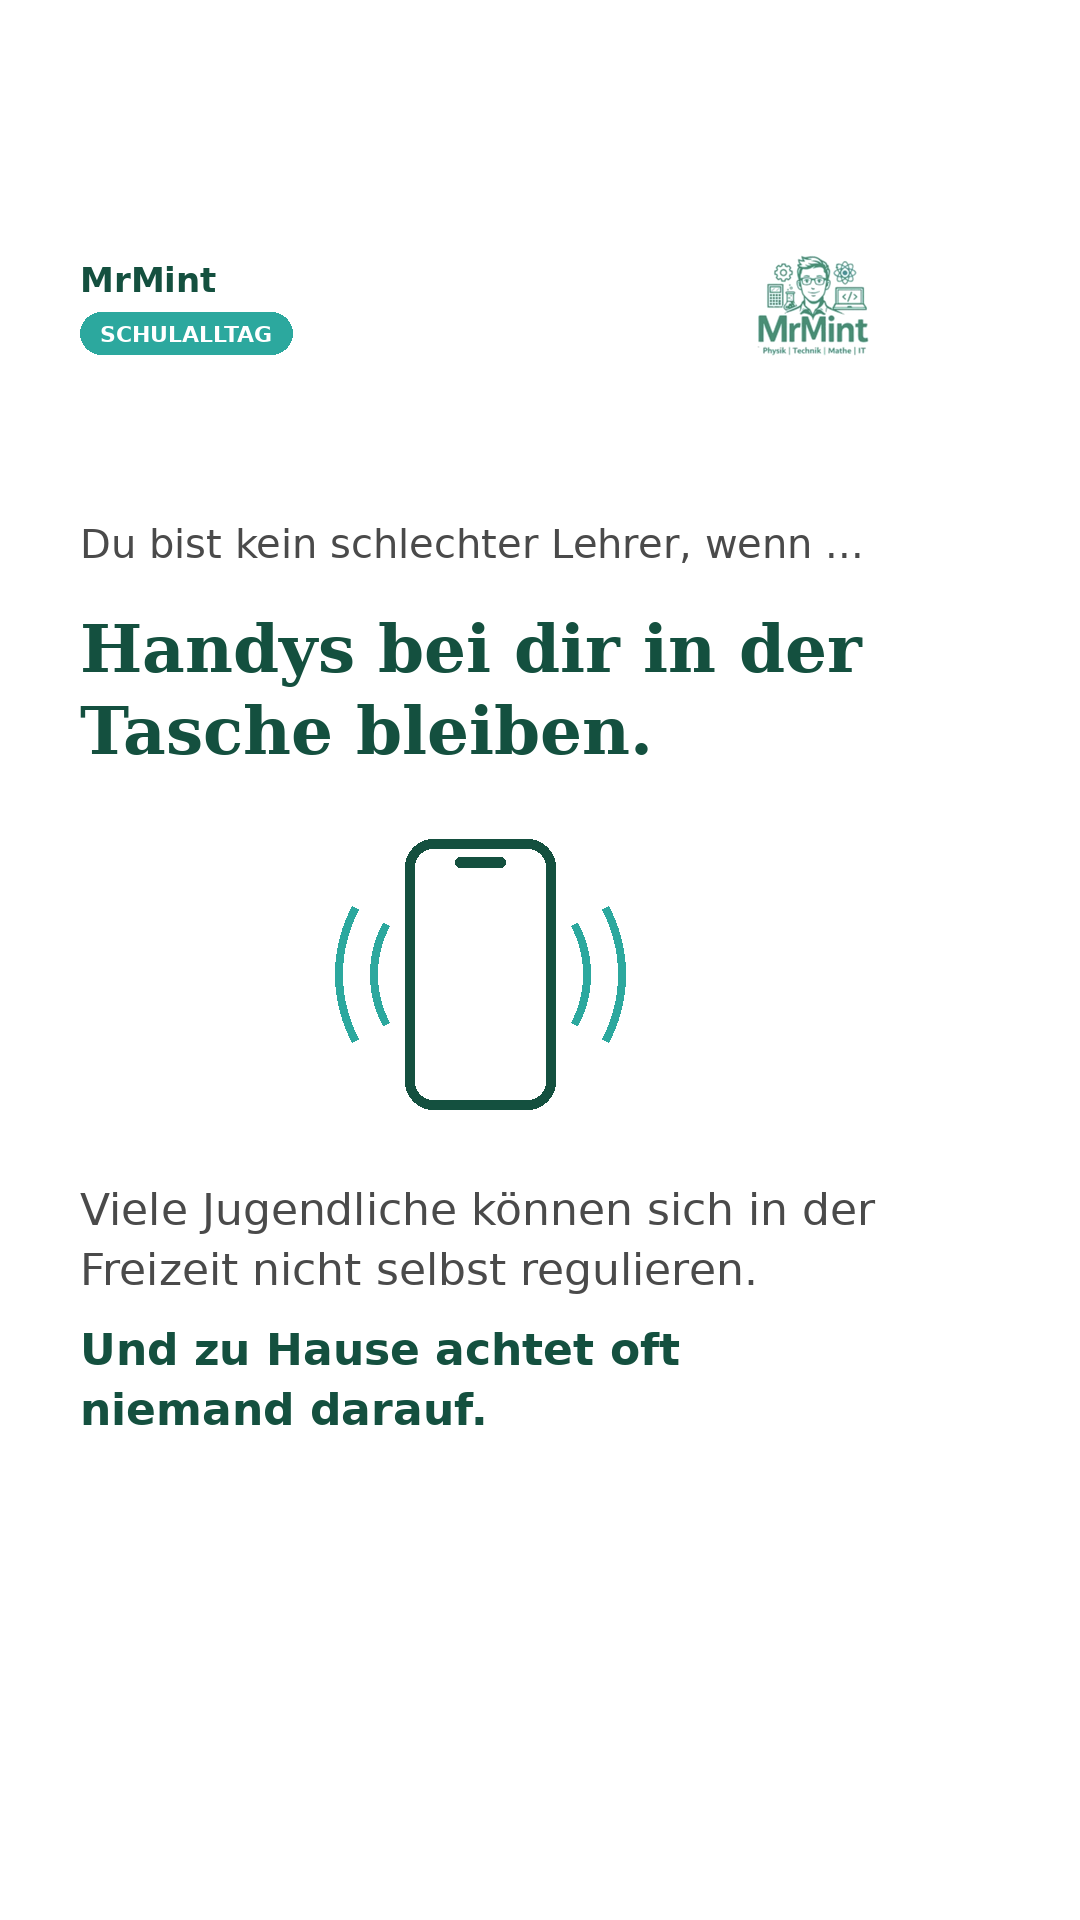
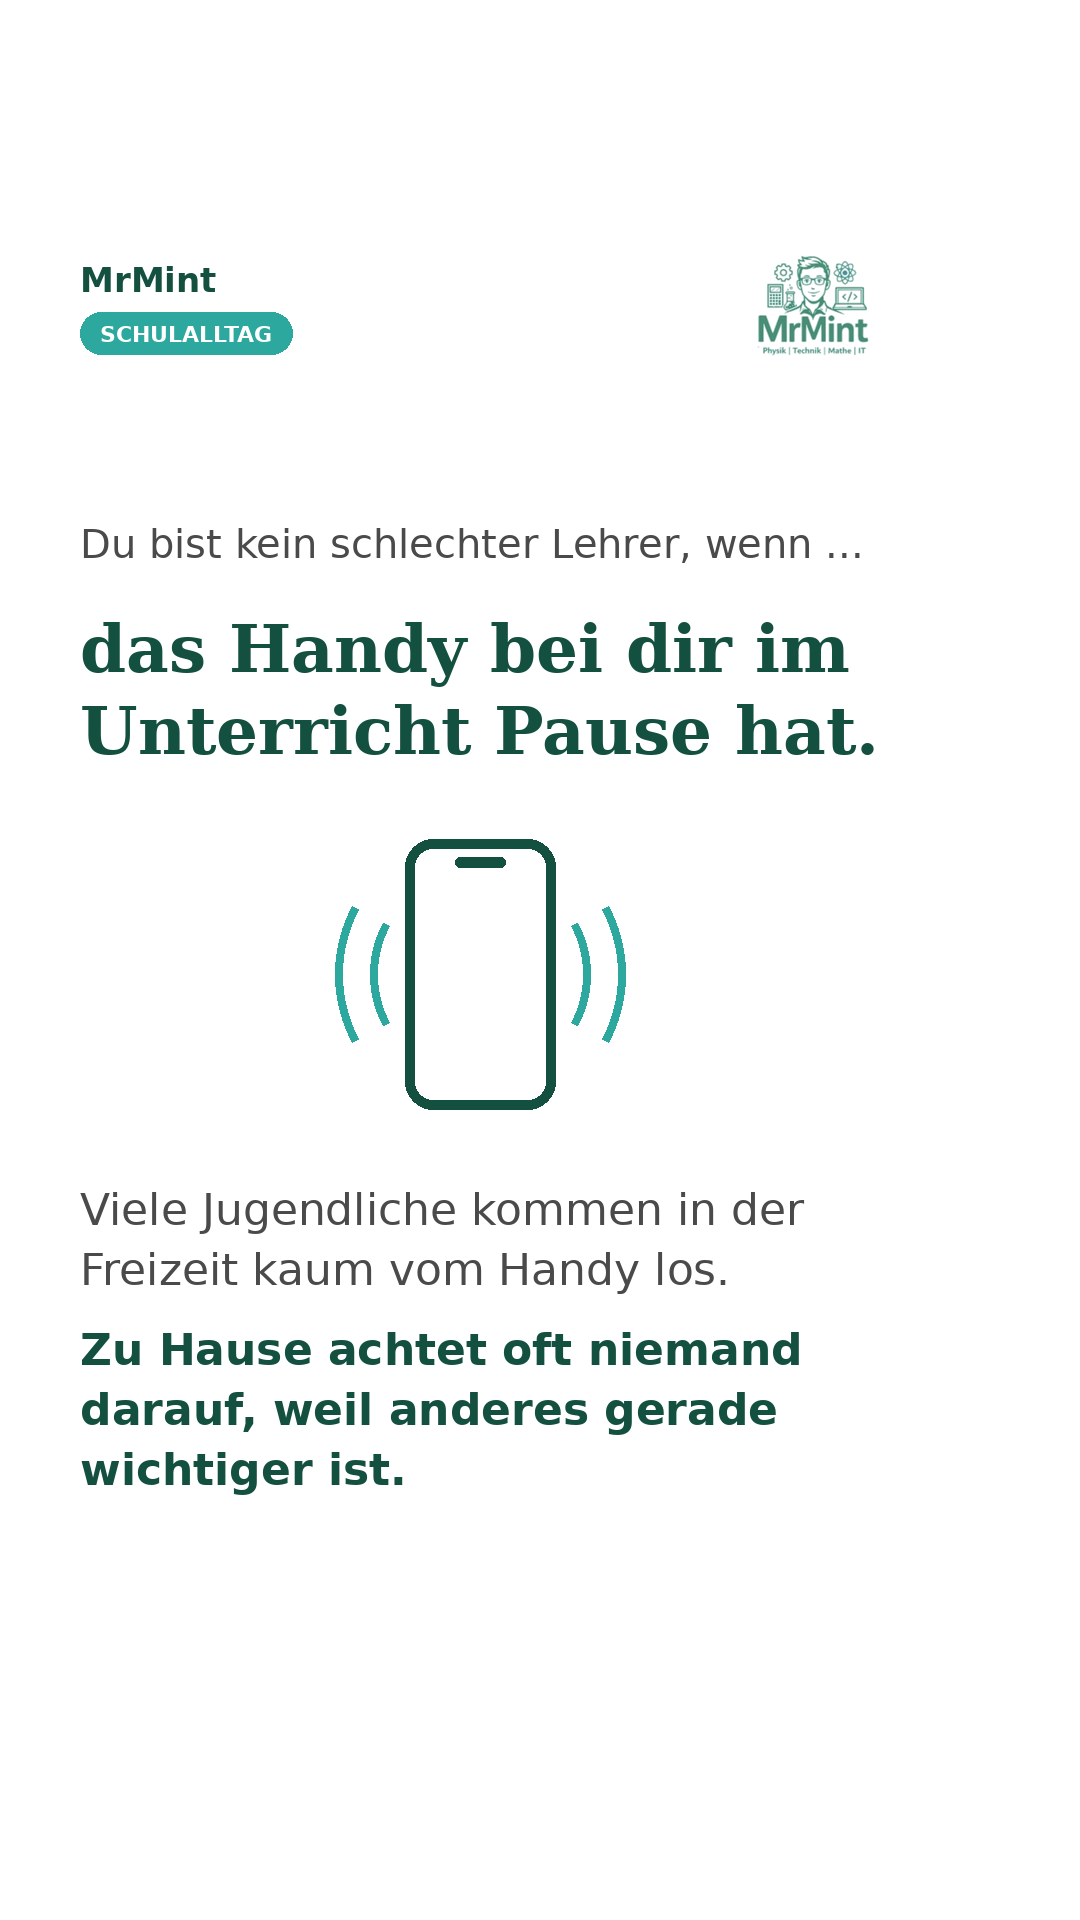
Slides Kein schlechter Lehrer: Verständlichkeit, eduki Hinweis
Claude-Session: https://claude.ai/code/session_01NwDh8RBh1ZjGNarc6Syr5E

Changed region(s): [[0.0611, 0.625, 0.7944, 0.7812], [0.0611, 0.3125, 0.7944, 0.4062]]

diff --git a/2026-10-kein-schlechter-lehrer/build.py b/2026-10-kein-schlechter-lehrer/build.py
@@ -37,16 +37,16 @@ img,d=base(TAG)
 y=pre(d)
 y=block(d,y,"deine Schüler nicht einfach aufs Klo dürfen.",sb(66),DG,82)+40
 d.text((M,y),"fast 200",font=b(150),fill=MINT); y+=180
-y=block(d,y,"dokumentierte Toilettengänge bei einzelnen Schülern. Nur während des Unterrichts.",r(44),GRAY,60)+30
-y=block(d,y,"Viele gehen nicht aufs Klo, sondern zum Vapen oder für TikTok.",b(44),DG,60)
+y=block(d,y,"dokumentierte Toilettengänge haben einzelne Schüler bei uns. Nur im Unterricht gezählt.",r(44),GRAY,60)+30
+y=block(d,y,"Oft geht es dabei nicht ums Klo, sondern ums Vapen oder um TikTok.",b(44),DG,60)
 img.save("r3.png")
 # 4 Handy
 img,d=base(TAG)
 y=pre(d)
-y=block(d,y,"Handys bei dir in der Tasche bleiben.",sb(66),DG,82)+50
+y=block(d,y,"das Handy bei dir im Unterricht Pause hat.",sb(66),DG,82)+50
 phone(d,W//2-60,y+150); y+=360
-y=block(d,y,"Viele Jugendliche können sich in der Freizeit nicht selbst regulieren.",r(44),GRAY,60)+20
-y=block(d,y,"Und zu Hause achtet oft niemand darauf.",b(44),DG,60)
+y=block(d,y,"Viele Jugendliche kommen in der Freizeit kaum vom Handy los.",r(44),GRAY,60)+20
+y=block(d,y,"Zu Hause achtet oft niemand darauf, weil anderes gerade wichtiger ist.",b(44),DG,60)
 img.save("r4.png")
 # 5 Schule als Ort
 img,d=base(TAG)
@@ -59,7 +59,7 @@ img.save("r5.png")
 img,d=base(TAG)
 y=block(d,520,"Eine Methode ist nur so gut wie die Klasse, für die sie gemacht ist.",sb(66),DG,82)+50
 y=block(d,y,"Was an einer Schule klappt, muss an deiner nicht klappen. Das ist kein Versagen. Das ist Kontext.",r(44),GRAY,62)+60
-d.rounded_rectangle([M,y,W-M-120,y+110],radius=55,fill=MINT)
-d.text(((W-120)//2,y+55),"Mehr echter Schulalltag: @mrmint18",font=b(34),fill=WHITE,anchor="mm")
+d.line([(M,y),(M+200,y)],fill=MINT,width=6); y+=40
+y=block(d,y,"Unterrichtsmaterial für Mathe, Physik, Technik und IT: auf eduki unter MrMint",r(36),MINT,50)
 img.save("r6.png")
 contact_sheet([f"r{i}.png" for i in range(1,7)],"/tmp/claude-0/-home-claude-mrmint-posts/7adc0e5c-6540-519e-a6e8-367b31d968bf/scratchpad/sheet.png")
